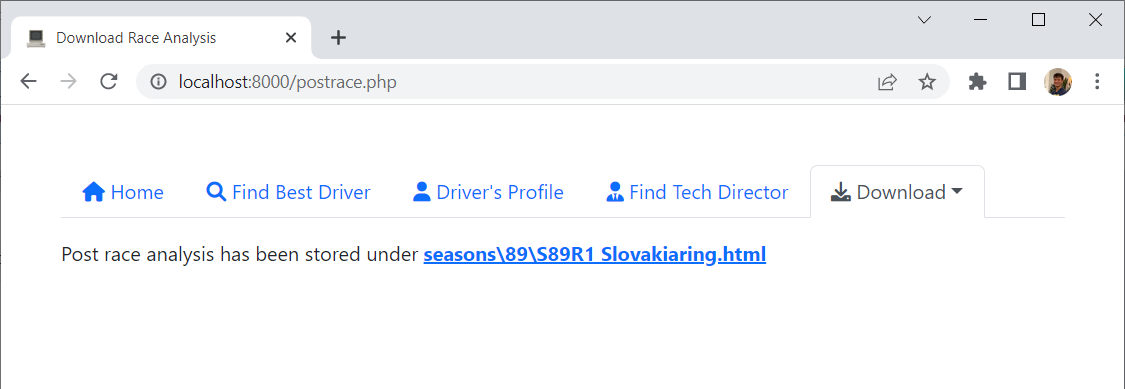
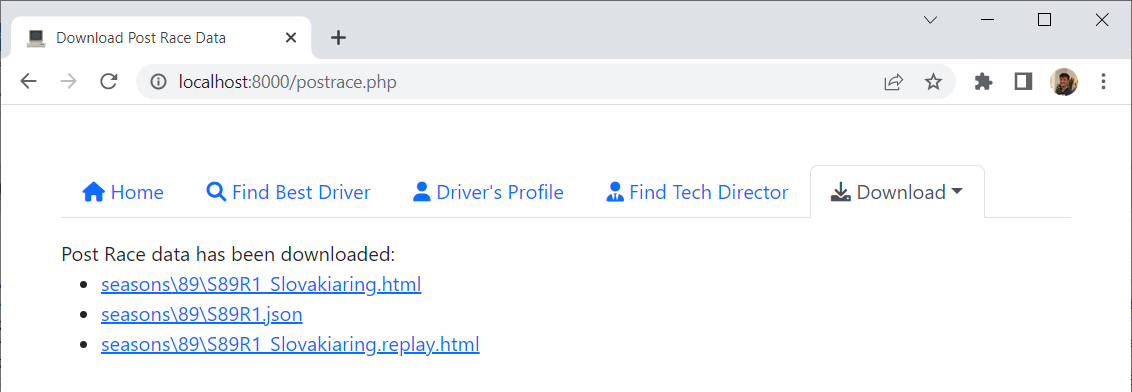
CTDry/Wet to JSON, update README, screenshots

diff --git a/postrace.php b/postrace.php
@@ -75,7 +75,7 @@ if (php_sapi_name() === 'cli') {
 <head>
     <meta charset="utf-8">
     <meta name="viewport" content="width=device-width, initial-scale=1">
-    <title>Download Race Analysis</title>
+    <title>Download Post Race Data</title>
     <link rel="shortcut icon" href="img/favicon.png" type="image/png">
     <link href="https://cdn.jsdelivr.net/npm/bootstrap@5.2.0/dist/css/bootstrap.min.css" rel="stylesheet" integrity="sha384-gH2yIJqKdNHPEq0n4Mqa/HGKIhSkIHeL5AyhkYV8i59U5AR6csBvApHHNl/vI1Bx" crossorigin="anonymous">
     <script defer src="https://cdn.jsdelivr.net/npm/bootstrap@5.1.3/dist/js/bootstrap.bundle.min.js" integrity="sha384-ka7Sk0Gln4gmtz2MlQnikT1wXgYsOg+OMhuP+IlRH9sENBO0LRn5q+8nbTov4+1p" crossorigin="anonymous"></script>

diff --git a/src/RaceAnalysisParser.php b/src/RaceAnalysisParser.php
@@ -402,6 +402,8 @@ class RaceAnalysisParser
             'ot' => (int) trim($matches['OT']),
             'df' => (int) trim($matches['DF']),
             'mf' => (int) trim($matches['MF']),
+            'ct_dry' => (int) trim($matches['CTDry']),
+            'ct_wet' => (int) trim($matches['CTWet']),
             'ot_init_blocked' => (int) trim(strip_tags($matches['otInitBlocked'])),
             'ot_init_success' => (int) trim(strip_tags($matches['otInitSuccess'])),
             'ot_uponyou_blocked' => (int) trim(strip_tags($matches['otUponYouBlocked'])),

diff --git a/README.md b/README.md
@@ -2,7 +2,10 @@
 ![](screenshots/home.png)
 
 ## Features
-- Automatically download post Race Analysis as HTML file
+- Automatically download Post Race Data
+  - Race Analysis in HTML format
+  - Race Analysis in JSON format
+  - Light Race Replay in HTML format
 - Keep track of Drivers & Tech Directors Market Database
 - Find Best Driver incl. by Favourite Track
 - Find Driver's Profile
@@ -18,15 +21,19 @@
 - Extract zip to preferred *GPRO Home Server* folder
 - Navigate to *GPRO Home Server* folder and run terminal command `composer install`
 
-## Updates
-After updating *GPRO Home Server* run terminal command `composer install`
+## Update
+- Make backup of *GPRO Home Server* folder
+- Download [GPRO Home Server](https://github.com/farkhad/gpro/archive/refs/heads/main.zip) zip
+- Extract zip to *GPRO Home Server* folder
+- Navigate to *GPRO Home Server* folder and run terminal command `composer install`
 
 ## Configuration
 - Rename `config.example.php` to `config.php`
   - Open `config.php` with Notepad, set `USERNAME` & `PASSWORD`
-- Open `postrace.bat`, `homeserver.bat` with Notepad
-  - Set path to *GPRO Home Server* folder
-  - Setup Windows Scheduler to run `postrace.bat` after every race
+- Rename `homeserver.example.bat` to `homeserver.bat`, and `postrace.example.bat` to `postrace.bat`
+  - Open `postrace.bat`, `homeserver.bat` with Notepad
+    - Set path to *GPRO Home Server* folder
+    - Setup Windows Scheduler to run `postrace.bat` after every race
 
 ## Usage
 ### Automatically
@@ -44,7 +51,7 @@ Navigate to *GPRO Home Server* folder and run terminal command `php -S localhost
 - http://localhost:8000/find-td.php Find tech director
 
 ## Screenshots
-### Download Race Analysis
+### Download Post Race Data
 ![](screenshots/postrace.png)
 ### Download Market Database
 ![](screenshots/market.png)
